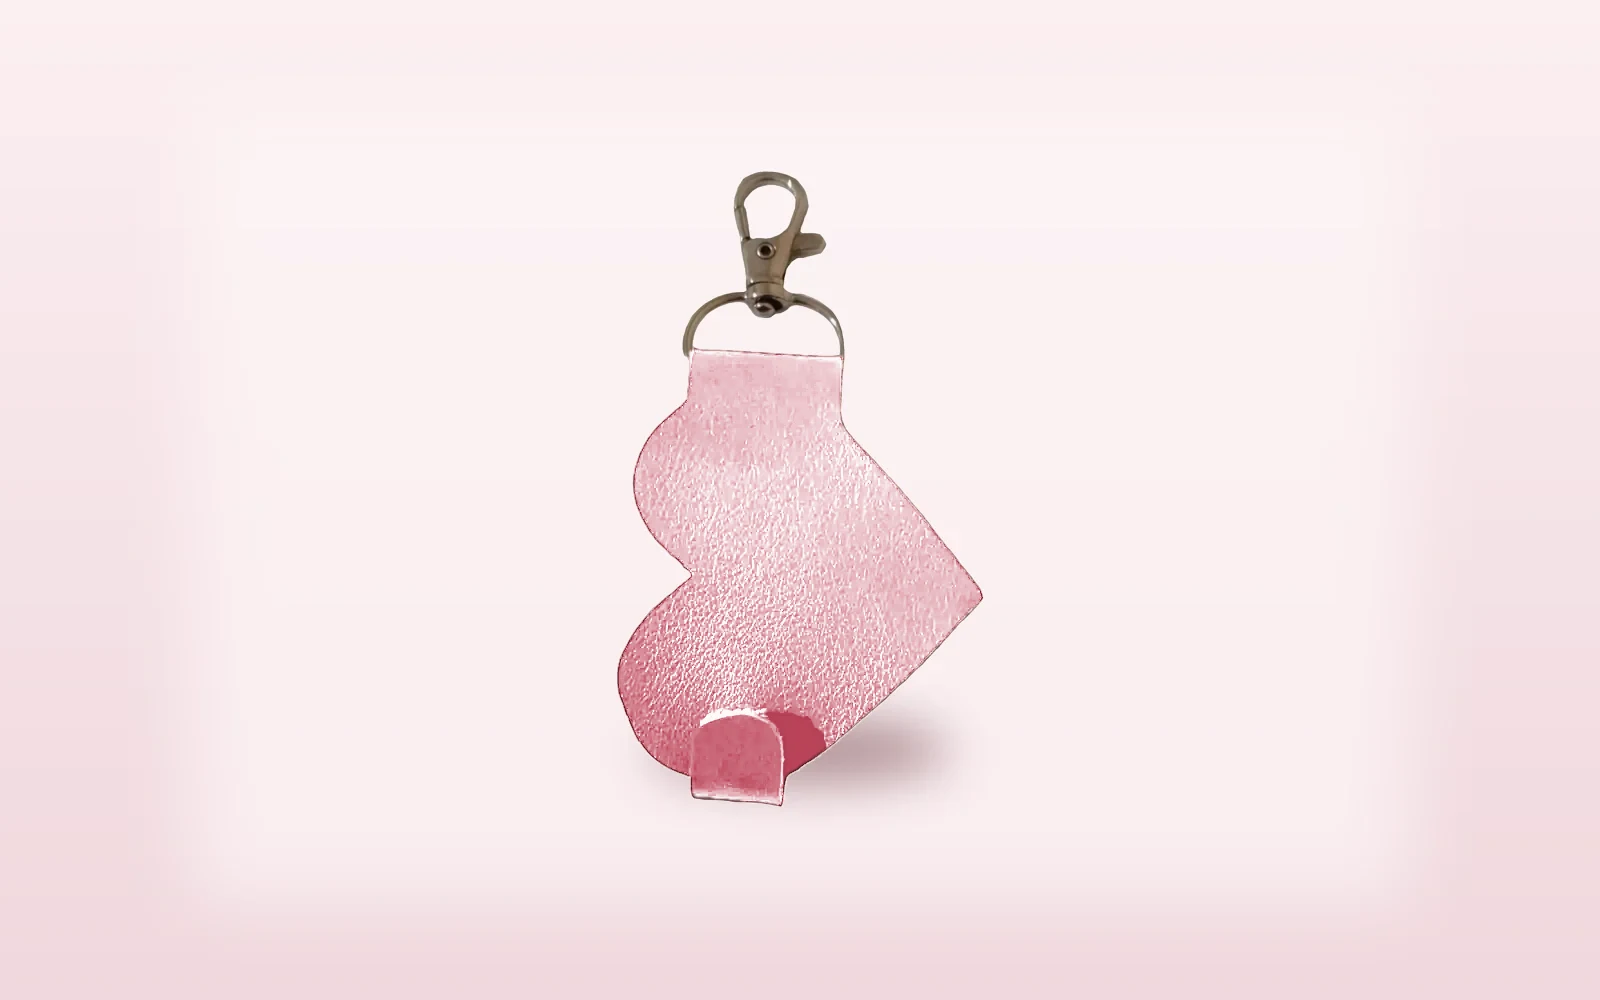
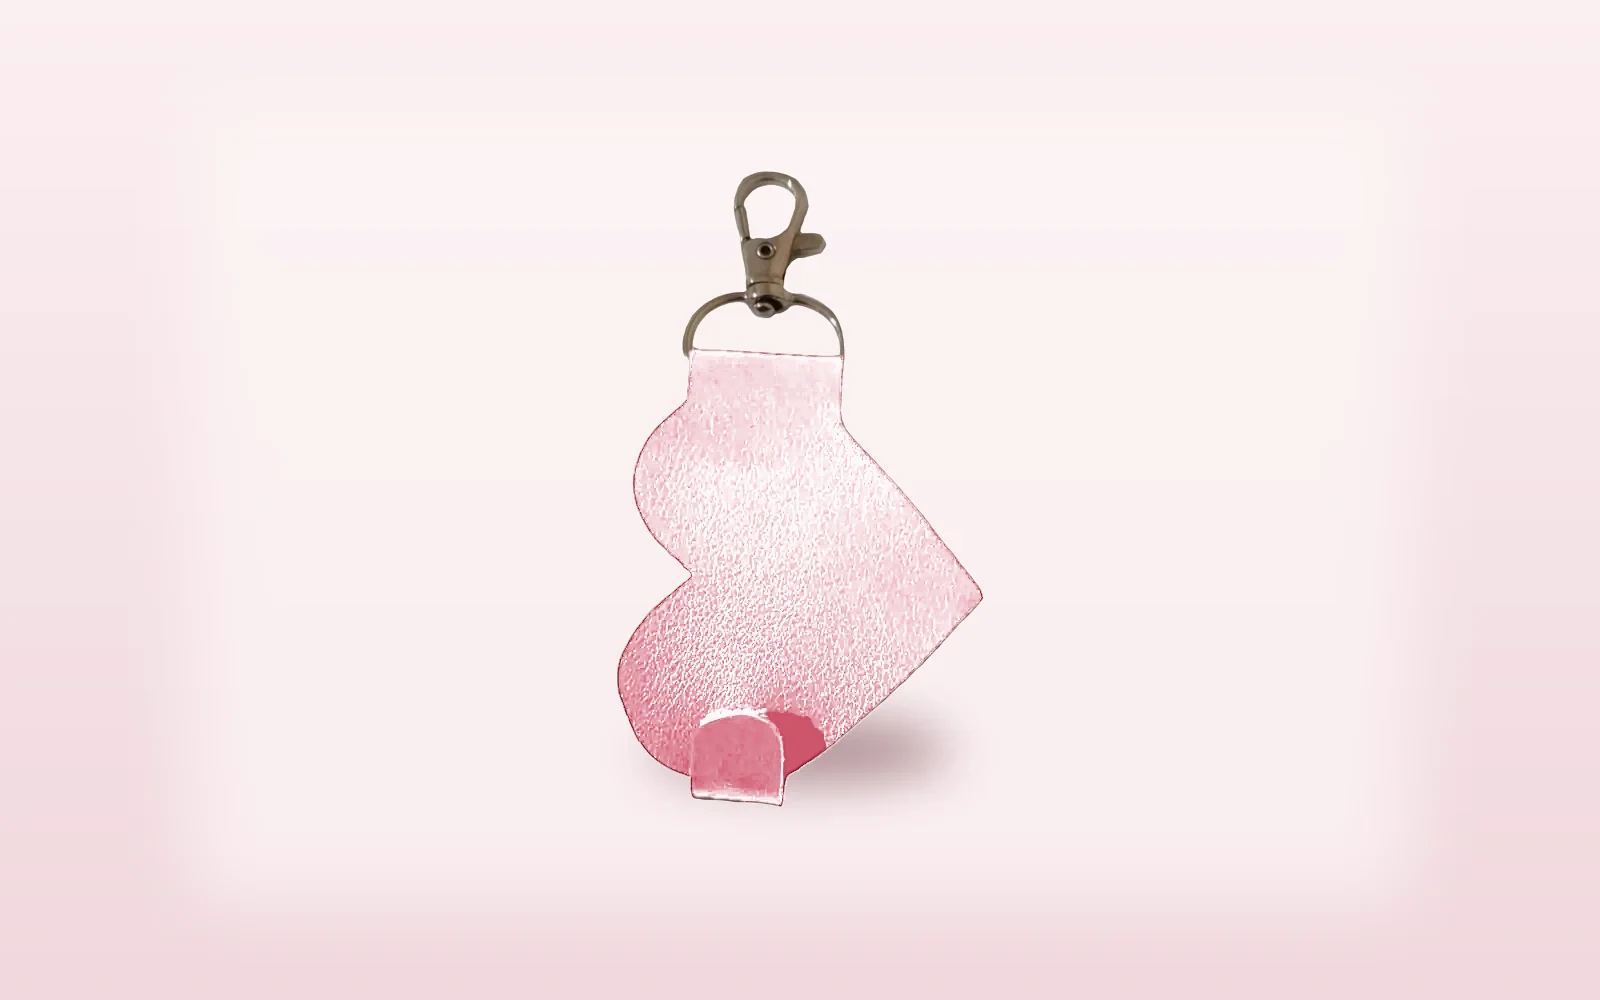
Tweak product colours: darker tan + navy, pastel pink + purple
- Navy #1f2f52 -> #14233f, tan #b9855a -> #8a5a33 (darker)
- Pink #e8b4bd -> #f4cfd6, purple #5b3f6e -> #b9a6cc (pastel)
- Swatch chips in data.ts match the recoloured product images

Changed region(s): [[0.375, 0.341, 0.625, 0.806]]

diff --git a/src/lib/data.ts b/src/lib/data.ts
@@ -43,11 +43,11 @@ export const SHAPES: Shape[] = [
 ];
 
 export const COLOURS: Colour[] = [
-  { id: 'navy', name: 'Navy blue', hex: '#1f2f52', sku: 'NV' },
-  { id: 'tan', name: 'Tan', hex: '#b9855a', sku: 'TN' },
-  { id: 'pink', name: 'Pink', hex: '#e8b4bd', sku: 'PK' },
+  { id: 'navy', name: 'Navy blue', hex: '#14233f', sku: 'NV' },
+  { id: 'tan', name: 'Tan', hex: '#8a5a33', sku: 'TN' },
+  { id: 'pink', name: 'Pink', hex: '#f4cfd6', sku: 'PK' },
   { id: 'maroon', name: 'Maroon', hex: '#6b1f2a', sku: 'MR' },
-  { id: 'purple', name: 'Purple', hex: '#5b3f6e', sku: 'PL' },
+  { id: 'purple', name: 'Purple', hex: '#b9a6cc', sku: 'PL' },
   { id: 'black', name: 'Black', hex: '#1a1a1a', sku: 'BK' },
 ];
 
